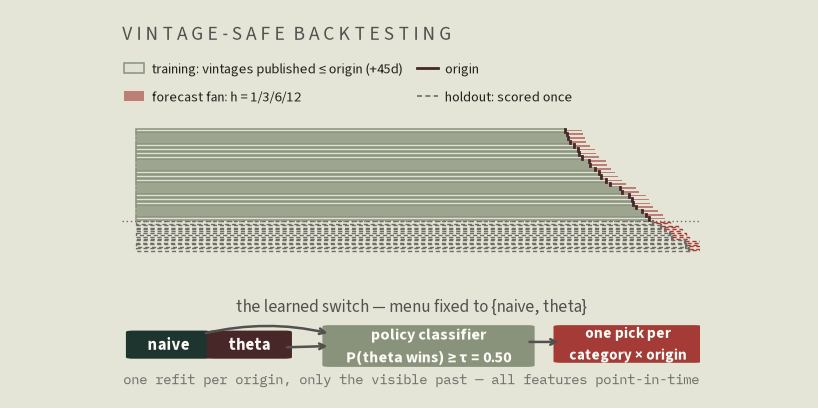
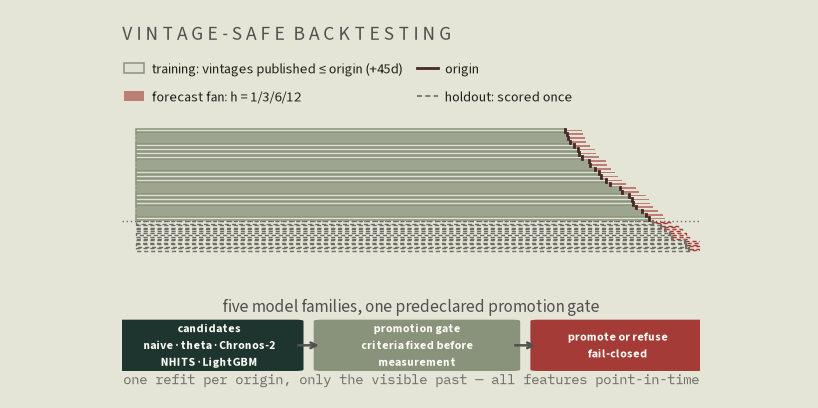
Story figures: the family benchmark, the horizon ladder, and a gate-first schematic
research_figures grows three renders from frozen artifacts only, each
behind stop-on-mismatch verification against the published aggregates:
model_families.png (the identical-protocol five-family table, holdout
column annotated post-hoc/descriptive), horizon_families.png (small
multiples per model with the naive dotted reference - six series never
share one legend), and feature_ladder.png (choose-window rungs with
origin stability and frozen verdicts). method_schematic's bottom band
now reads as the governance story - five families, one predeclared
promotion gate, fail-closed - instead of leading with the learned
switch. Themed palette adds pine/indigo slots for NHITS/Chronos,
CVD-validated on cream (worst adjacent pair 15.3 protan / 16.0 normal).

Changed region(s): [[0.1222, 0.7353, 0.8557, 0.9118]]

diff --git a/scripts/research_figures.py b/scripts/research_figures.py
@@ -1,6 +1,9 @@
 #!/usr/bin/env python3
-"""Research-overview figures: window-scoped model comparison and the policy's
-per-category REPORT outcome. Reads only frozen results JSONs.
+"""Research-overview figures: window-scoped model comparison, the
+identical-protocol family benchmark, per-horizon small multiples, the H7
+feature ladder, and the policy's per-category REPORT outcome. Reads only
+frozen results JSONs and fold CSVs (stop-on-mismatch verification against
+the published aggregates before drawing).
 
 Two render modes:
 
@@ -18,8 +21,10 @@ No results file is ever written: this script reads frozen JSONs only.
 from __future__ import annotations
 
 import argparse
+import csv
 import json
 import sys
+from collections import defaultdict
 from pathlib import Path
 
 import matplotlib
@@ -33,6 +38,8 @@ from common import FIGURES, ROOT  # noqa: E402
 BLUE = "#2a78d6"      # slot 1: regime-switch policy
 ORANGE = "#eb6834"    # slot 2: theta method
 AQUA = "#1baf7a"      # slot 3: global LightGBM
+PURPLE = "#7d5ba6"    # slot 4: Chronos-2 zero-shot
+BROWN = "#8c6d46"     # slot 5: NHITS trained
 INK = "#0b0b0b"
 INK_2 = "#52514e"     # naive baseline
 MUTED = "#898781"
@@ -61,6 +68,13 @@ FIELDNOTES = {
         "theta_method": "#482728",         # muted wine (owner pick)
         "regime_switch_policy": "#89927a", # sage (site accent)
         "global_lightgbm": "#d4708c",      # sakura rose (owner pick)
+        # Two added slots for the H6/H8 family benchmarks. CVD-validated on
+        # cream against the four above (scripts/validate_palette.js, worst
+        # adjacent pair 15.3 protan / 16.0 normal); the two deep owner tones
+        # stay outside the strict lightness band by the suite's documented
+        # convention — direct value labels and the legend carry identity.
+        "nhits_trained": "#1f7a68",        # pine
+        "chronos_2_zero_shot": "#2f5aa8",  # indigo
     },
     "positive": "#89927a",     # sage — the site accent; caption and dict
                                # comment both promise sage positives
@@ -105,6 +119,24 @@ MODEL_STYLE = {
     "theta_method": ("theta", ORANGE),
     "global_lightgbm": ("LightGBM", AQUA),
 }
+# The identical-protocol family benchmark (H6 Chronos, H8 NHITS beside the
+# frozen naive / theta / gate-LightGBM records). Display order puts the
+# neutral baseline first and the frontier last; adjacency is CVD-validated
+# in the themed palette (see FIELDNOTES comment).
+FAMILY_ORDER = [
+    ("seasonal_naive", "naive"),
+    ("nhits_trained", "NHITS (trained)"),
+    ("chronos_2_zero_shot", "Chronos-2 (zero-shot)"),
+    ("global_lightgbm", "LightGBM (gate)"),
+    ("theta_method", "theta"),
+]
+FAMILY_COLORS = {
+    "seasonal_naive": INK_2,
+    "nhits_trained": BROWN,
+    "chronos_2_zero_shot": PURPLE,
+    "global_lightgbm": AQUA,
+    "theta_method": ORANGE,
+}
 WINDOW_LABELS = {
     "exploration_2017_2022": "exploration\n2017-10 .. 2022-10",
     "report_2021_2022": "report\n2021-01 .. 2022-10",
@@ -142,6 +174,13 @@ def apply_theme(style: dict) -> None:
     MODEL_STYLE["global_lightgbm"] = ("LightGBM", colors["global_lightgbm"])
     MODEL_STYLE["theta_method"] = ("theta", colors["theta_method"])
     MODEL_STYLE["regime_switch_policy"] = ("policy", colors["regime_switch_policy"])
+    FAMILY_COLORS.update({
+        "seasonal_naive": colors["seasonal_naive"],
+        "nhits_trained": colors["nhits_trained"],
+        "chronos_2_zero_shot": colors["chronos_2_zero_shot"],
+        "global_lightgbm": colors["global_lightgbm"],
+        "theta_method": colors["theta_method"],
+    })
     BAR_GAP = 0.02
     DIVERGING = (style["positive"], style["negative"])
     LABEL_OUTSIDE = True
@@ -184,6 +223,221 @@ def research_windows(summary) -> None:
             transform=ax.transAxes, ha="right", va="top", fontsize=8, color=MUTED)
     fig.tight_layout()
     fig.savefig(FIGURES / "research_windows.png", bbox_inches="tight")
+    plt.close(fig)
+
+
+def _mean_cat_by_horizon(path, model_names, max_origin="2022-10-01"):
+    """Mean-category WAPE (%) per horizon from a frozen fold CSV (stdlib csv
+    only). WAPE per (series, horizon) = sum|pred-actual| / sum|actual|, then
+    the equal mean across the 11 categories — the protocol metric."""
+    num = defaultdict(float)
+    den = defaultdict(float)
+    with open(path, newline="") as f:
+        for row in csv.DictReader(f):
+            if row["model_name"] not in model_names:
+                continue
+            if max_origin and row["forecast_origin"] > max_origin:
+                continue
+            actual = float(row["actual"])
+            key = (row["series_id"], int(row["horizon"]))
+            num[key] += abs(float(row["prediction"]) - actual)
+            den[key] += abs(actual)
+    per_horizon = defaultdict(list)
+    for (series, horizon), numerator in num.items():
+        per_horizon[horizon].append(100 * numerator / den[(series, horizon)])
+    return {h: sum(v) / len(v) for h, v in sorted(per_horizon.items())}
+
+
+def _verify_published(computed, published, label):
+    """Stop-on-mismatch gate: every computed series must reproduce the
+    published two-decimal aggregates before any figure is drawn."""
+    for horizon, expected in zip((1, 3, 6, 12), published):
+        got = computed.get(horizon)
+        if got is None or abs(got - expected) > 0.005:
+            sys.exit(f"verification gate failed: {label} h={horizon} "
+                     f"computed {got:.4f} vs published {expected}")
+
+
+def model_families(summary) -> None:
+    """The identical-protocol family table (FINDINGS §12): theta, Chronos-2,
+    NHITS, gate LightGBM, seasonal naive on the same origin grid. The holdout
+    column is the single post-hoc descriptive pass — annotated as such."""
+    rows = summary["rows"]
+    chronos_x = load("cand_h6_chronos.json")
+    nhits_x = load("cand_h8_nhits.json")
+    chronos_h = load("holdout_chronos.json")
+    nhits_h = load("holdout_nhits.json")
+
+    def row_value(window, model):
+        r = next(r for r in rows if r["evaluation_window"] == window
+                 and r["model_name"] == model)
+        return 100 * r["metric_value"]
+
+    exploration = {
+        "seasonal_naive": row_value("exploration_2017_2022", "seasonal_naive"),
+        "global_lightgbm": row_value("exploration_2017_2022", "global_lightgbm"),
+        "theta_method": row_value("exploration_2017_2022", "theta_method"),
+        "chronos_2_zero_shot": 100 * chronos_x["windows"]["full"]["candidate"]["mean_category_wape"],
+        "nhits_trained": 100 * nhits_x["windows"]["full"]["candidate"]["mean_category_wape"],
+    }
+    holdout = {
+        "seasonal_naive": row_value("holdout_2023_2025", "seasonal_naive"),
+        "global_lightgbm": row_value("holdout_2023_2025", "global_lightgbm"),
+        "theta_method": row_value("holdout_2023_2025", "theta_method"),
+        "chronos_2_zero_shot": 100 * chronos_h["candidate"]["mean_category_wape"],
+        "nhits_trained": 100 * nhits_h["candidate"]["mean_category_wape"],
+    }
+
+    fig, ax = plt.subplots(figsize=(7.6, 4.6))
+    windows = ["exploration_2017_2022", "holdout_2023_2025"]
+    data = {"exploration_2017_2022": exploration, "holdout_2023_2025": holdout}
+    n_models = len(FAMILY_ORDER)
+    width = 0.15 - BAR_GAP
+    x = np.arange(len(windows))
+    for slot, (model, label) in enumerate(FAMILY_ORDER):
+        offsets = x + (slot - (n_models - 1) / 2) * width
+        values = [data[w][model] for w in windows]
+        bars = ax.bar(offsets, values, width=width, color=FAMILY_COLORS[model],
+                      label=label, zorder=3)
+        for bar, value in zip(bars, values):
+            ax.text(bar.get_x() + bar.get_width() / 2, value, f"{value:.1f}",
+                    ha="center", va="bottom", fontsize=8, color=INK_2)
+    ax.set_xticks(x, ["exploration\n2017-10 .. 2022-10\n(24 origins)",
+                      "holdout\n2023-01 .. 2025-03\n(single post-hoc pass)"],
+                  fontsize=8.5)
+    ax.set_ylabel("mean-category WAPE (%)")
+    ax.set_ylim(0, 11.4)
+    ax.set_title("One vintage protocol, five model families — lower is better",
+                 fontsize=10, color=INK_2, loc="left", pad=24)
+    ax.legend(loc="lower left", bbox_to_anchor=(0.0, 1.005, 1.0, 0.06),
+              ncols=5, fontsize=8, frameon=False,
+              handlelength=1.1, handletextpad=0.45, columnspacing=0.9)
+    ax.text(0.99, 0.985, "holdout: post-hoc, descriptive only —\n"
+            "no selection or promotion input; LightGBM slice\n"
+            "previously observed in the gate run",
+            transform=ax.transAxes, ha="right", va="top", fontsize=8, color=MUTED)
+    fig.tight_layout()
+    fig.savefig(FIGURES / "model_families.png", bbox_inches="tight")
+    plt.close(fig)
+
+
+def horizon_families() -> None:
+    """Exploration-window mean-category WAPE by horizon, one panel per model
+    with the seasonal naive as the dotted neutral reference — small multiples
+    so six series never have to fight over one legend."""
+    gate_folds = ROOT / "reference" / "vintage_backtest_folds.csv"
+    naive_h = _mean_cat_by_horizon(gate_folds, {"seasonal_naive"})
+    gate_h = _mean_cat_by_horizon(gate_folds, {"global_lightgbm"})
+    theta_h = _mean_cat_by_horizon(ROOT / "results" / "folds_h5_theta.csv",
+                                   {"theta_method"})
+    chronos_h = _mean_cat_by_horizon(ROOT / "results" / "folds_h6_chronos.csv",
+                                     {"chronos_2_zero_shot"})
+    nhits_h = _mean_cat_by_horizon(ROOT / "results" / "folds_h8_nhits.csv",
+                                   {"nhits_trained"})
+    direct_h = {int(k): 100 * v["mean_category"] for k, v in
+                load("h7_scorecard.json")["windows"]["full_exploration"]["final_vintage"]["stats"]["candidate"]["by_horizon"].items()}
+
+    # Verification gates: reproduce the published two-decimal tables
+    # (CHRONOS_MRTS.md / NHITS_MRTS.md / h7_scorecard.md) before drawing.
+    _verify_published(naive_h, (9.52, 9.09, 8.45, 10.14), "seasonal naive")
+    _verify_published(gate_h, (7.17, 8.49, 9.63, 12.89), "gate LightGBM")
+    _verify_published(theta_h, (5.80, 6.23, 7.81, 10.20), "theta")
+    _verify_published(chronos_h, (5.88, 6.64, 8.10, 10.37), "Chronos-2")
+    _verify_published(nhits_h, (6.08, 7.30, 9.60, 12.64), "NHITS")
+    _verify_published(direct_h, (7.11, 8.48, 8.99, 11.47), "direct LightGBM + growth")
+
+    panels = [
+        ("naive (baseline)", naive_h, None, "-"),
+        ("theta", theta_h, FAMILY_COLORS["theta_method"], "-"),
+        ("Chronos-2 (zero-shot)", chronos_h, FAMILY_COLORS["chronos_2_zero_shot"], "-"),
+        ("NHITS (trained)", nhits_h, FAMILY_COLORS["nhits_trained"], "-"),
+        ("LightGBM (gate, recursive)", gate_h, FAMILY_COLORS["global_lightgbm"], (0, (5, 3))),
+        ("LightGBM (direct + growth)", direct_h, FAMILY_COLORS["global_lightgbm"], "-"),
+    ]
+    horizons = [1, 3, 6, 12]
+    fig, axes = plt.subplots(2, 3, figsize=(9.6, 5.4), sharex=True, sharey=True)
+    for idx, (ax, (title, values, color, dash)) in enumerate(zip(axes.flat, panels)):
+        if idx != 0:  # every panel overlays the dotted naive reference
+            ax.plot(horizons, [naive_h[h] for h in horizons], color=MUTED,
+                    lw=1.4, ls=(0, (2, 2)), zorder=2)
+        ax.plot(horizons, [values[h] for h in horizons], color=color or INK_2,
+                lw=2.2, ls=dash, marker="o", ms=5,
+                markerfacecolor=color or INK_2, zorder=3)
+        ax.set_title(title, fontsize=9.5, color=INK_2, loc="left")
+        end = values[12]
+        ax.annotate(f"{end:.1f}", (12, end), xytext=(6, 2),
+                    textcoords="offset points", fontsize=8.5, color=INK_2)
+    for ax in axes[:, 0]:
+        ax.set_ylabel("mean-category WAPE (%)")
+    for ax in axes[1, :]:
+        ax.set_xlabel("horizon (months ahead)")
+        ax.set_xticks(horizons)
+    axes[0, 0].set_ylim(4.5, 14.2)
+    fig.suptitle("Exploration origins, final-vintage actuals — dotted line = seasonal naive",
+                 x=0.02, ha="left", fontsize=10, color=INK_2)
+    fig.tight_layout(rect=(0, 0, 1, 0.955))
+    fig.savefig(FIGURES / "horizon_families.png", bbox_inches="tight")
+    plt.close(fig)
+
+
+def feature_ladder() -> None:
+    """The H7 choose-window ladder: incremental mean-category WAPE delta per
+    rung, origin stability, and the frozen verdict. Reads the frozen rung
+    JSONs only."""
+    rungs = [
+        ("direct_base", "base (anchor)"),
+        ("direct_growth", "+ growth"),
+        ("direct_trend", "+ trend"),
+        ("direct_cross", "+ cross-category"),
+        ("direct_revision", "+ revision"),
+        ("direct_external", "+ external macro"),
+        ("removal_growth", "− growth (removal check)"),
+    ]
+    labels, deltas, stability, verdicts = [], [], [], []
+    for rung, label in rungs:
+        data = load(f"h7_rung_{rung}.json")
+        advancement = data.get("advancement") or {}
+        labels.append(label)
+        deltas.append(advancement.get("mean_category_delta_pp", 0.0))
+        improved = advancement.get("improved_origins")
+        stability.append("—" if improved is None
+                         else f"{improved}/{advancement.get('n_choose_origins', 15)}")
+        note = data.get("verdict_note", "")
+        if rung == "removal_growth":
+            note = "CONFIRMS GROWTH"
+        elif rung == "direct_base":
+            note = "ANCHOR"
+        verdicts.append(note)
+
+    fig, ax = plt.subplots(figsize=(7.6, 4.2))
+    y = np.arange(len(labels))[::-1]
+    neutral = "#c9c2b2"
+    colors = [neutral if v == "ANCHOR" else
+              (DIVERGING[0] if d > 0 else DIVERGING[1])
+              for d, v in zip(deltas, verdicts)]
+    ax.barh(y, deltas, height=0.58, color=colors, zorder=3)
+    ax.axvline(0, color="#c3c2b7", lw=1, zorder=2)
+    ax.grid(axis="y", visible=False)
+    ax.set_yticks(y, labels, fontsize=9)
+    ax.set_xlabel("choose-window mean-category WAPE delta vs previous best (pp); "
+                  "positive = better")
+    for yi, delta, stable, verdict in zip(y, deltas, stability, verdicts):
+        ax.text(delta + (0.008 if delta >= 0 else -0.008), yi,
+                f"{delta:+.2f}" if verdict != "ANCHOR" else "0.00",
+                va="center", ha="left" if delta >= 0 else "right",
+                fontsize=8.5, color=INK_2)
+        ax.text(0.28, yi, f"{stable} origins improved   {verdict}",
+                va="center", ha="left", fontsize=8.5,
+                color=INK_2 if verdict in ("ADVANCE", "CONFIRMS GROWTH") else MUTED,
+                fontweight="bold" if verdict == "ADVANCE" else "normal")
+    ax.set_xlim(-0.22, 0.62)
+    ax.margins(y=0.08)
+    ax.set_title("Feature-group ladder (direct per-horizon LightGBM) — choose "
+                 "window only; the report window was scored once, after the "
+                 "ladder concluded",
+                 fontsize=10, color=INK_2, loc="left")
+    fig.tight_layout()
+    fig.savefig(FIGURES / "feature_ladder.png", bbox_inches="tight")
     plt.close(fig)
 
 
@@ -350,9 +604,15 @@ def main() -> None:
         policy_categories(load("policy_report.json"))
         themed_policy_tau_sweep(load("policy_train.json"), load("policy_report.json"), FIELDNOTES)
         themed_policy_reliability(load("policy_report.json"), FIELDNOTES)
+        model_families(load("mrts_window_summary.json"))
+        horizon_families()
+        feature_ladder()
     else:
         research_windows(load("mrts_window_summary.json"))
         policy_categories(load("policy_report.json"))
+        model_families(load("mrts_window_summary.json"))
+        horizon_families()
+        feature_ladder()
     print("figures written:", sorted(p.name for p in FIGURES.glob("*.png")))
 
 

diff --git a/scripts/method_schematic.py b/scripts/method_schematic.py
@@ -1,6 +1,6 @@
 #!/usr/bin/env python3
 """Method schematic: what vintage-safe backtesting did, and where the
-classifier sits. Card-first layout — wide aspect and large type so it
+promotion gate sits. Card-first layout — wide aspect and large type so it
 stays legible at gallery-thumbnail size and in the dialog. Illustrative
 diagram: origin grid and protocol values are real; no metrics are drawn.
 Fieldnotes theme."""
@@ -146,17 +146,17 @@ def main() -> None:
                      arrowprops=dict(arrowstyle="->", color=INK2, lw=1.8,
                                      connectionstyle=f"arc3,rad={rad}"))
 
-    ax2.text(0.5, 0.94, "the learned switch — menu fixed to {naive, theta}",
+    ax2.text(0.5, 0.94, "five model families, one predeclared promotion gate",
              fontsize=12.5, color=INK2, ha="center")
-    chip(0.02, 0.28, 0.12, 0.36, "naive", SUMI, SUMI, fs=12)
-    chip(0.16, 0.28, 0.12, 0.36, "theta", WINE, WINE, fs=12)
-    chip(0.36, 0.16, 0.34, 0.56, "policy classifier\nP(theta wins) ≥ τ = 0.50",
-         SAGE, SAGE, "#fbf9f4", fs=11.5)
-    chip(0.76, 0.22, 0.23, 0.5, "one pick per\ncategory × origin",
-         CRIMSON, CRIMSON, "#fbf9f4", fs=11)
-    arrow(0.14, 0.62, 0.36, 0.62, rad=-0.12)  # gentle arc over theta, well below the subtitle
-    arrow(0.28, 0.42, 0.36, 0.44)
-    arrow(0.70, 0.5, 0.76, 0.5)
+    chip(0.0, 0.10, 0.30, 0.70,
+         "candidates\nnaive · theta · Chronos-2\nNHITS · LightGBM",
+         SUMI, SUMI, fs=8.5)
+    chip(0.345, 0.10, 0.33, 0.70, "promotion gate\ncriteria fixed before\nmeasurement",
+         SAGE, SAGE, "#fbf9f4", fs=8.5)
+    chip(0.72, 0.10, 0.275, 0.70, "promote or refuse\nfail-closed",
+         CRIMSON, CRIMSON, "#fbf9f4", fs=8.5)
+    arrow(0.30, 0.45, 0.345, 0.45)
+    arrow(0.675, 0.45, 0.72, 0.45)
     ax2.text(0.5, -0.12, "one refit per origin, only the visible past — all features point-in-time",
              fontsize=10, color=MUTED, ha="center", fontfamily="IBM Plex Mono")
 
